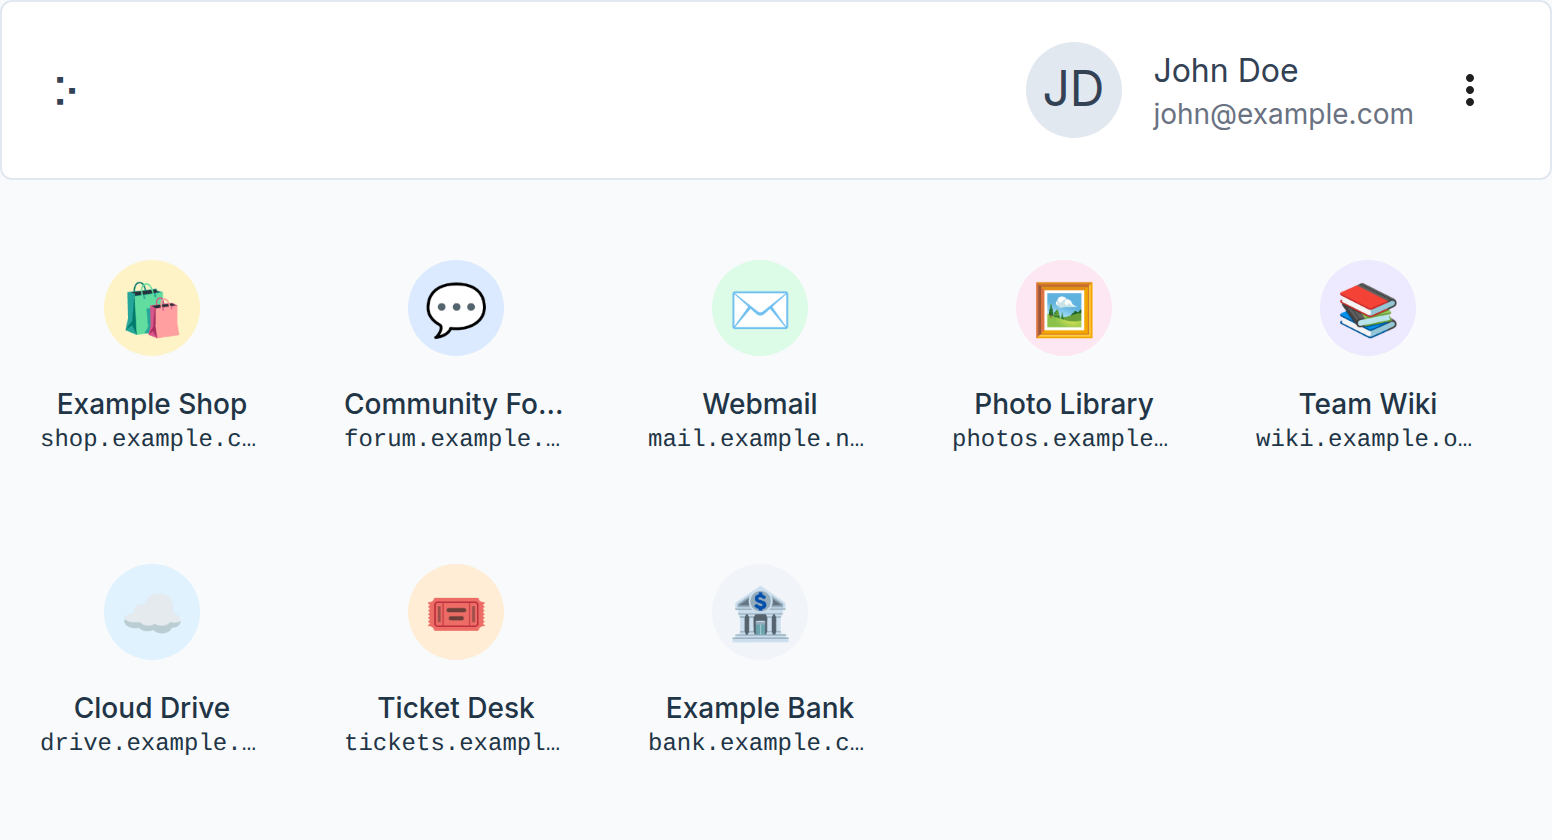
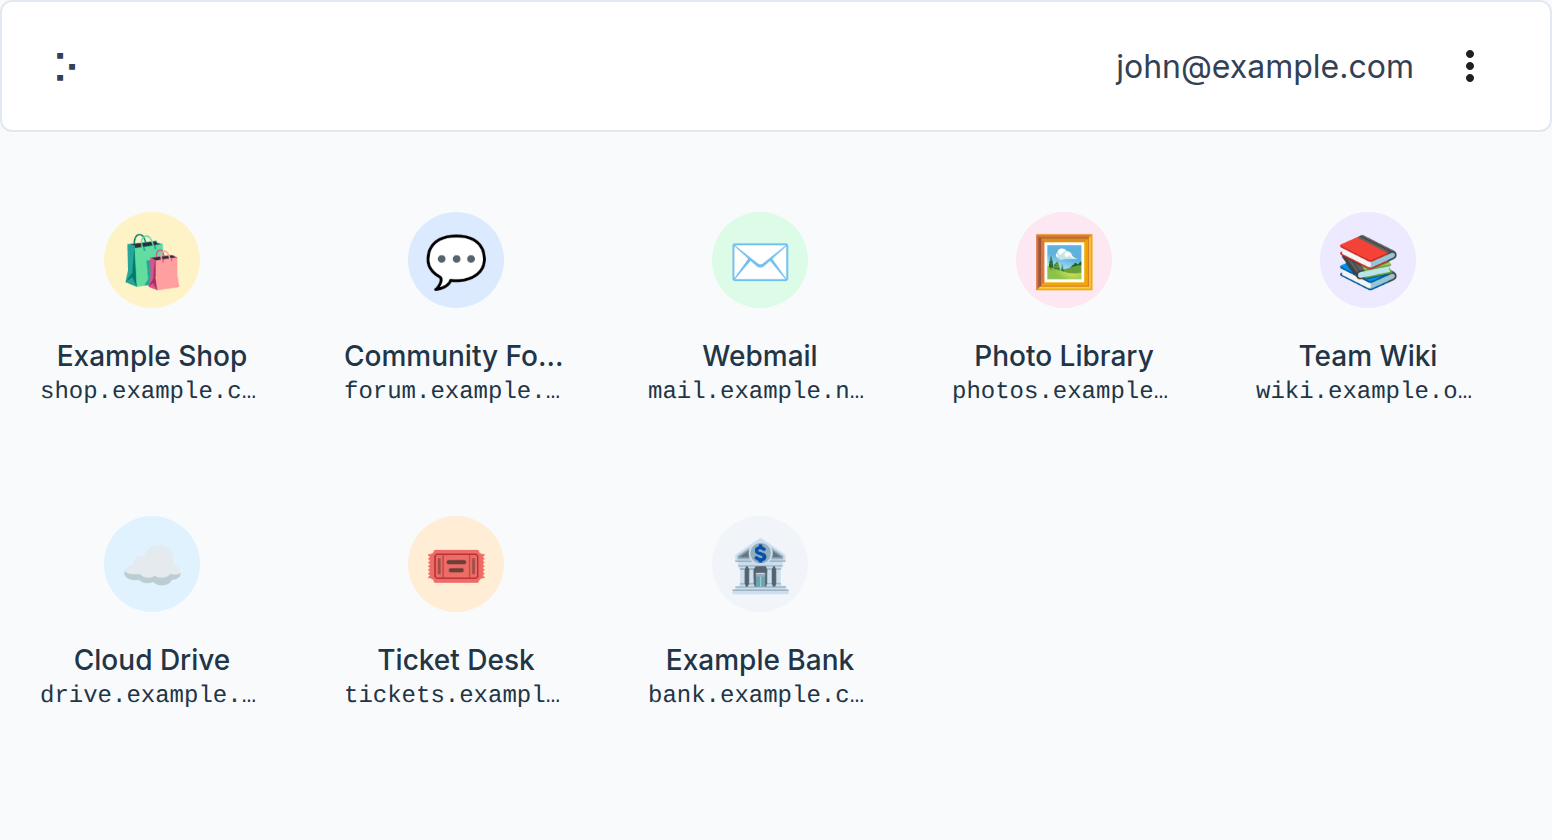
Drop privateProfile support and make GET the default callback method
Schema v7 migration removes identities.privateProfile and websites.permissions.
An unknown ext.callbackMethod is refused when the request page opens.

diff --git a/src/components/SetupWizard.vue b/src/components/SetupWizard.vue
@@ -300,33 +300,6 @@
       </div>
     </div>
 
-    <div v-if="step === 'privateProfile'">
-      <div class="flex flex-col gap-3">
-        <h2 class="text-xl font-bold text-left">Set up your private profile <span class="font-normal text-gray-500">(optional)</span></h2>
-
-        <Message size="small" severity="secondary" variant="simple" class="text-left mb-8">
-          Your private profile will be stored on this device.
-          Websites that you log into may ask for a permission to read your private profile,
-          and you can decide on a case-by-case basis if you want to share it with them.
-        </Message>
-
-        <div class="_preview mb-2 text-center">
-          <Avatar :label="privateProfile.initials || null" class="mr-2" size="large" shape="circle" :title="privateProfile.initials">
-            <template #icon><PersonIcon class="_person text-gray-500" aria-hidden="true"/></template>
-          </Avatar>
-          <div class="m-4 mt-2 mb-0 mr-6">{{privateProfile.name || '&nbsp;'}}</div>
-          <div class="m-4 mt-0 mr-6 text-sm text-gray-500">{{privateProfile.email || '&nbsp;'}}</div>
-        </div>
-
-        <InputText v-model="privateProfile.initials" :invalid="privateProfileErrors.initials" placeholder="Your initials" maxlength="2" @keydown.enter.prevent="submitField"/>
-        <InputText v-model="privateProfile.name" :invalid="privateProfileErrors.name" placeholder="Name" maxlength="100" @keydown.enter.prevent="submitField"/>
-        <InputText v-model="privateProfile.email" :invalid="privateProfileErrors.email" placeholder="Email address" maxlength="100" inputmode="email" autocapitalize="none" autocorrect="off" spellcheck="false" @input="privateProfile.email = privateProfile.email.toLowerCase()" @keydown.enter.prevent="submitField"/>
-
-        <Button @click="next" :disabled="privateProfileErrors.any" class="mt-10" autofocus>{{ (privateProfile.initials || privateProfile.name || privateProfile.email) ? 'Next' : 'Skip' }}</Button>
-        <Button @click="prev" variant="text" size="small">&laquo; go back</Button>
-      </div>
-    </div>
-
     <div v-if="step === 'dns'">
       <div class="flex flex-col gap-3">
         <h2 class="text-xl font-bold text-left">Almost there</h2>
@@ -459,7 +432,7 @@ import WebauthnSigner from "../signers/webauthn.js";
 
 import {clearBannerDismissal, isFirefox, isSafari, isIos} from "../lib/pwa.js";
 
-const STEPS = ['identifier', 'lookupCode', 'device', 'factors', 'publicProfile', 'privateProfile', 'dns'];
+const STEPS = ['identifier', 'lookupCode', 'device', 'factors', 'publicProfile', 'dns'];
 const step = ref(STEPS[0]);
 
 const cancellable = ref(false);
@@ -838,22 +811,6 @@ watch(publicProfile, () => {
   publicProfileError.value = nameError || initialsError;
 })
 
-
-////////////
-// Step - private profile
-
-const privateProfile = reactive({initials:'', name:'', email:''});
-const privateProfileErrors = ref({});
-
-watch(privateProfile, () => {
-  privateProfileErrors.value = {
-    initials: !!(privateProfile.initials && (!Triauth.Helpers.isNormalString(privateProfile.initials) || privateProfile.initials.match(/['"=<>&]/) || privateProfile.initials.length > 2)),
-    name: !!(privateProfile.name && (!Triauth.Helpers.isNormalString(privateProfile.name) || privateProfile.name.match(/["=<>&]/) || privateProfile.name.length > 25)),
-    email: !!(privateProfile.email && (!Triauth.Helpers.isNormalString(privateProfile.email) || !privateProfile.email.match(/^[^\s@]+@[^\s@]+\.[^\s@]+$/) || privateProfile.email.length > 250)),
-  }
-  privateProfileErrors.value.any = Object.values(privateProfileErrors.value).some((e) => e);
-})
-
 ////////////
 // Step - DNS setup
 
@@ -1033,7 +990,6 @@ const finishSetup = async () => {
     identifier: identifier.value,
     signers: signers.value.map((signer) => signer.serialize()),
     publicProfile: toRaw(publicProfile),
-    privateProfile: toRaw(privateProfile),
     createdAt: Date.now()
   }
 
@@ -1092,7 +1048,6 @@ const addTestIdentity = async (entry) => {
     identifier: entry.identifier,
     ...(entry.lookupCode ? {lookupCode: entry.lookupCode} : {}),
     publicProfile: entry.publicProfile || {},
-    privateProfile: entry.privateProfile || {},
     signers,
     createdAt: Date.now()
   });
@@ -1125,7 +1080,7 @@ const addTestIdentity = async (entry) => {
 ._status > :first-child { position:absolute; left:0; top:0; }
 ._status > ._info:first-child { top:calc((1lh - 1.125em) / 2); }   /* centred on the first line of text */
 
-/* The empty avatar on the profile steps shows a generic person until initials are typed */
+/* The empty avatar on the profile step shows a generic person until initials are typed */
 ._person { fill:currentColor; }
 
 /* A button that leaves the app: the "open in new" icon follows the label, in the button's own colour */
@@ -1133,7 +1088,7 @@ const addTestIdentity = async (entry) => {
 
 /* On phones the text column inside the hint box is half the screen, so the box runs into the card's padding, only the
    lead line beside the info sign (._lead) keeps its gutter, the record table stacks each label above its value, and
-   the profile steps drop the avatar preview so the fields stay in view above the keyboard */
+   the profile step drops the avatar preview so the fields stay in view above the keyboard */
 @media (max-width: 480px) {
   ._preview { display:none; }
   ._dns-hint { margin-left:-1.5rem; margin-right:-1.5rem; }

diff --git a/src/components/AuthPage.vue b/src/components/AuthPage.vue
@@ -22,12 +22,10 @@ let baseUrl = null;
 let identity = null;
 let website = null;
 
-let callbackMethod = 'POST';
+let callbackMethod = 'GET';
 let callbackUrl = null;
 
 const requestedExt = {};
-
-const permissionSwitchesRef = ref({});
 
 // Every token a website may request; each requested one is minted on approval (see confirm())
 const TOKEN_TYPES = ['pingToken', 'signToken', 'stampToken', 'attestToken'];
@@ -37,13 +35,6 @@ const SILENT_GRANT_DESCRIPTIONS = {
   pingToken: 'verify your session in the background while you use it',
   stampToken: 'prove to other websites that you are signed in'
 };
-
-// The private profile fields that a grant shares: the non-empty ones. The consent screen lists
-// exactly these keys and confirm() sends exactly this object.
-const sharedPrivateProfile = () =>
-  Object.fromEntries(Object.entries(identity?.privateProfile || {}).filter(([, v]) => !!v));
-
-const privateProfileFieldsRef = computed(() => Object.keys(sharedPrivateProfile()).join(', '));
 
 // The silent grants the website requested, displayed as a list on the consent screen
 const grantsRef = computed(() =>
@@ -85,27 +76,19 @@ async function setup() {
       website = {
         identityId: identity.id,
         baseUrl: baseUrl.href,
-        permissions: {},
         createdAt: Date.now()
       };
     }
 
     // Extract the ext from challenge, filter through whitelist, normalize, and store in requestedExt
     for (const [k,v] of Object.entries(ext)) {
-      if (['privateProfile'].indexOf(k) >= 0) {
-        requestedExt[k] = v === true;
-
-        if (requestedExt[k]) {
-          permissionSwitchesRef.value[k] = Object.keys(website.permissions).includes(k) ? !!website.permissions[k] : false;
-        }
-
-      } else if (TOKEN_TYPES.indexOf(k) >= 0) {
+      if (TOKEN_TYPES.indexOf(k) >= 0) {
         requestedExt[k] = !!v;
 
       } else if (k === 'manifest') {
         requestedExt[k] = Helpers.sanitizeManifest(v, baseUrl);
 
-      } else if (k === 'callbackMethod' && Triauth.Helpers.isNormalString(v)) {
+      } else if (k === 'callbackMethod') {
         callbackMethod = v;
       }
     }
@@ -163,11 +146,6 @@ async function confirm(){
   busyRef.value = true;
 
   try {
-    // Remember user-selection of permissions in the website model
-    for (const [k,v] of Object.entries(permissionSwitchesRef.value)) {
-      website.permissions[k] = !!v;
-    }
-
     website.lastLoginAt = Date.now();
 
     // The tile icon is captured under this approval, and only when there is none yet or the site now
@@ -189,13 +167,8 @@ async function confirm(){
 
     const signedMetadata = {};
 
-    if (requestedExt.privateProfile && permissionSwitchesRef.value.privateProfile) {
-      signedMetadata.ext ||= {};
-      signedMetadata.ext.privateProfile = sharedPrivateProfile();
-    }
-
     for (const type of TOKEN_TYPES) {
-      if (permissionSwitchesRef.value[type] || !!requestedExt[type]) {
+      if (requestedExt[type]) {
         const value = ':' + Triauth.Helpers.randomString(24);
 
         signedMetadata.ext ||= {};
@@ -281,17 +254,6 @@ async function deny() {
         <ul class="list-disc ml-5 mt-1">
           <li v-for="grant of grantsRef" :key="grant.key">{{ grant.text }}</li>
         </ul>
-      </div>
-
-      <div class="mx-7 pt-4 p-6 text-left bg-gray-50 rounded-lg" v-if="requestedExt.privateProfile">
-        <div class="font-bold py-2 flex">
-          <label class="grow">Private profile</label>
-          <div><ToggleSwitch v-model="permissionSwitchesRef.privateProfile"/></div>
-        </div>
-        <div class="text-sm py-2 text-slate-800">
-          Allow this website to read your private profile.<br/>
-          <span class="text-gray-500">{{ privateProfileFieldsRef }}</span>
-        </div>
       </div>
 
       <div class="p-2 bg-yellow-200 inline-block rounded text-gray-800 text-sm" v-if="!website.id">

diff --git a/src/lib/helpers.js b/src/lib/helpers.js
@@ -66,6 +66,11 @@ export const Helpers = {
     }
     const ext = challenge.data.ext || {};
 
+    // A callbackMethod this authenticator does not know is the website's mistake (no method means GET, see sendResponse)
+    if (ext.callbackMethod !== undefined && !['GET', 'POST', 'HASH'].includes(ext.callbackMethod)) {
+      throw new AppError('This is a problem with the website: its request asks for an unsupported callbackMethod. Please let the website know.', {callbackMethod: ext.callbackMethod});
+    }
+
     // Extract the request authentication code (HMAC) from the `token` parameter
     const tokenParam = params.get('token');
     let hmac = null;
@@ -97,24 +102,11 @@ export const Helpers = {
     };
   },
 
+  // GET is the default when the website names no method (parseRequest refuses unknown ones)
   sendResponse: (method, url, responseString) => {
     url = new URL(url);
 
-    if (method === 'GET') {
-      url.searchParams.set('response', responseString);
-
-      window.location.replace(url);
-
-    } else if (method === 'HASH') {
-      const hash = url.hash.slice(1); // drop leading '#'
-      const [prefix, query = ''] = hash.split('?');
-      const params = new URLSearchParams(query);
-      params.set('response', responseString);
-      url.hash = prefix + '?' + params.toString();
-
-      window.location.replace(url);
-
-    } else {
+    if (method === 'POST') {
       const form = document.createElement('form');
       form.method = 'POST';
       form.action = url;
@@ -128,6 +120,20 @@ export const Helpers = {
       document.body.appendChild(form);
       form.submit();
       setTimeout(() => form.remove(), 250);
+
+    } else if (method === 'HASH') {
+      const hash = url.hash.slice(1); // drop leading '#'
+      const [prefix, query = ''] = hash.split('?');
+      const params = new URLSearchParams(query);
+      params.set('response', responseString);
+      url.hash = prefix + '?' + params.toString();
+
+      window.location.replace(url);
+
+    } else {
+      url.searchParams.set('response', responseString);
+
+      window.location.replace(url);
     }
   },
 

diff --git a/src/db/schema.js b/src/db/schema.js
@@ -5,7 +5,7 @@
  */
 
 export const SCHEMA = {
-  VERSION: 6,
+  VERSION: 7,
 
   'identities': {
     'id': {type: 'number', optional: true},
@@ -20,9 +20,6 @@ export const SCHEMA = {
 
     'signers': {type: 'object', instance: Array},
     'signers.**': {optional: true},
-
-    'privateProfile': {type: 'object', optional: true},
-    'privateProfile.**': {optional: true},
 
     'publicProfile': {type: 'object', optional: true},
     'publicProfile.**': {optional: true},
@@ -41,9 +38,6 @@ export const SCHEMA = {
 
     'identityId': {type: 'number'},
     'baseUrl': {type: 'string'},
-
-    'permissions': {type: 'object'},
-    'permissions.**': {optional: true},
 
     // The site's self-description, as accepted by Helpers.sanitizeManifest (PROTOCOL.md §14.1)
     'manifest': {type: 'object', optional: true},
@@ -116,5 +110,26 @@ export const INDEXES = {
 // its previous version with data intact - a failed migration means the app cannot open
 // until the code is fixed, never data loss.
 export const MIGRATIONS = {
+
+  // The private profile is no longer supported: drop it from the identities, and drop the websites' permissions,
+  // which only held the grants to read it
+  7: function ({transaction}, done) {
+    const strip = function (storeName, key, next) {
+      const request = transaction.objectStore(storeName).openCursor();
+      request.onsuccess = function () {
+        const cursor = request.result;
+        if (!cursor) return next();
+
+        const value = cursor.value;
+        if (key in value) {
+          delete value[key];
+          cursor.update(value);
+        }
+        cursor.continue();
+      };
+    };
+
+    strip('identities', 'privateProfile', () => strip('websites', 'permissions', done));
+  },
 
 }

diff --git a/src/components/HomePage.vue b/src/components/HomePage.vue
@@ -128,11 +128,7 @@ function websiteIconSrc(website) {
       <template #end>
         <div class="flex items-center gap-2">
           <div class="my-2 flex items-center mr-4">
-            <Avatar :image="identityRef.privateProfile.avatarImage" :label="identityRef.privateProfile.avatarImage ? null : identityRef.privateProfile.initials || '&nbsp;'" size="large" shape="circle" :title="identityRef.privateProfile.initials" class="mr-4" v-if="identityRef.privateProfile.initials || identityRef.privateProfile.avatarImage"/>
-            <div>
-              <div class="text-left">{{identityRef.privateProfile.name || identityRef.identifier }}</div>
-              <div class="text-sm text-gray-500" v-if="identityRef.privateProfile.name">{{identityRef.identifier || '&nbsp;'}}</div>
-            </div>
+            <div class="text-left">{{ identityRef.identifier }}</div>
             <div class="ml-4 size-6 cursor-pointer" @click.prevent="showContextMenu"><MoreVertIcon/></div>
           </div>
         </div>

diff --git a/src/main.js b/src/main.js
@@ -83,9 +83,6 @@ app.component('Tag', Tag);
 import Avatar from 'primevue/avatar';
 app.component('Avatar', Avatar);
 
-import ToggleSwitch from 'primevue/toggleswitch';
-app.component('ToggleSwitch', ToggleSwitch);
-
 import Toolbar from 'primevue/toolbar';
 app.component('Toolbar', Toolbar);
 

diff --git a/src/components/AttestPage.vue b/src/components/AttestPage.vue
@@ -25,7 +25,7 @@ let baseUrl = null;
 let identity = null;
 let website = null;
 
-let callbackMethod = 'POST';
+let callbackMethod = 'GET';
 let callbackUrl = null;
 
 const errorMessageRef = ref('');

diff --git a/src/components/SignPage.vue b/src/components/SignPage.vue
@@ -28,7 +28,7 @@ let baseUrl = null;
 let identity = null;
 let website = null;
 
-let callbackMethod = 'POST';
+let callbackMethod = 'GET';
 let callbackUrl = null;
 
 let message = null;
